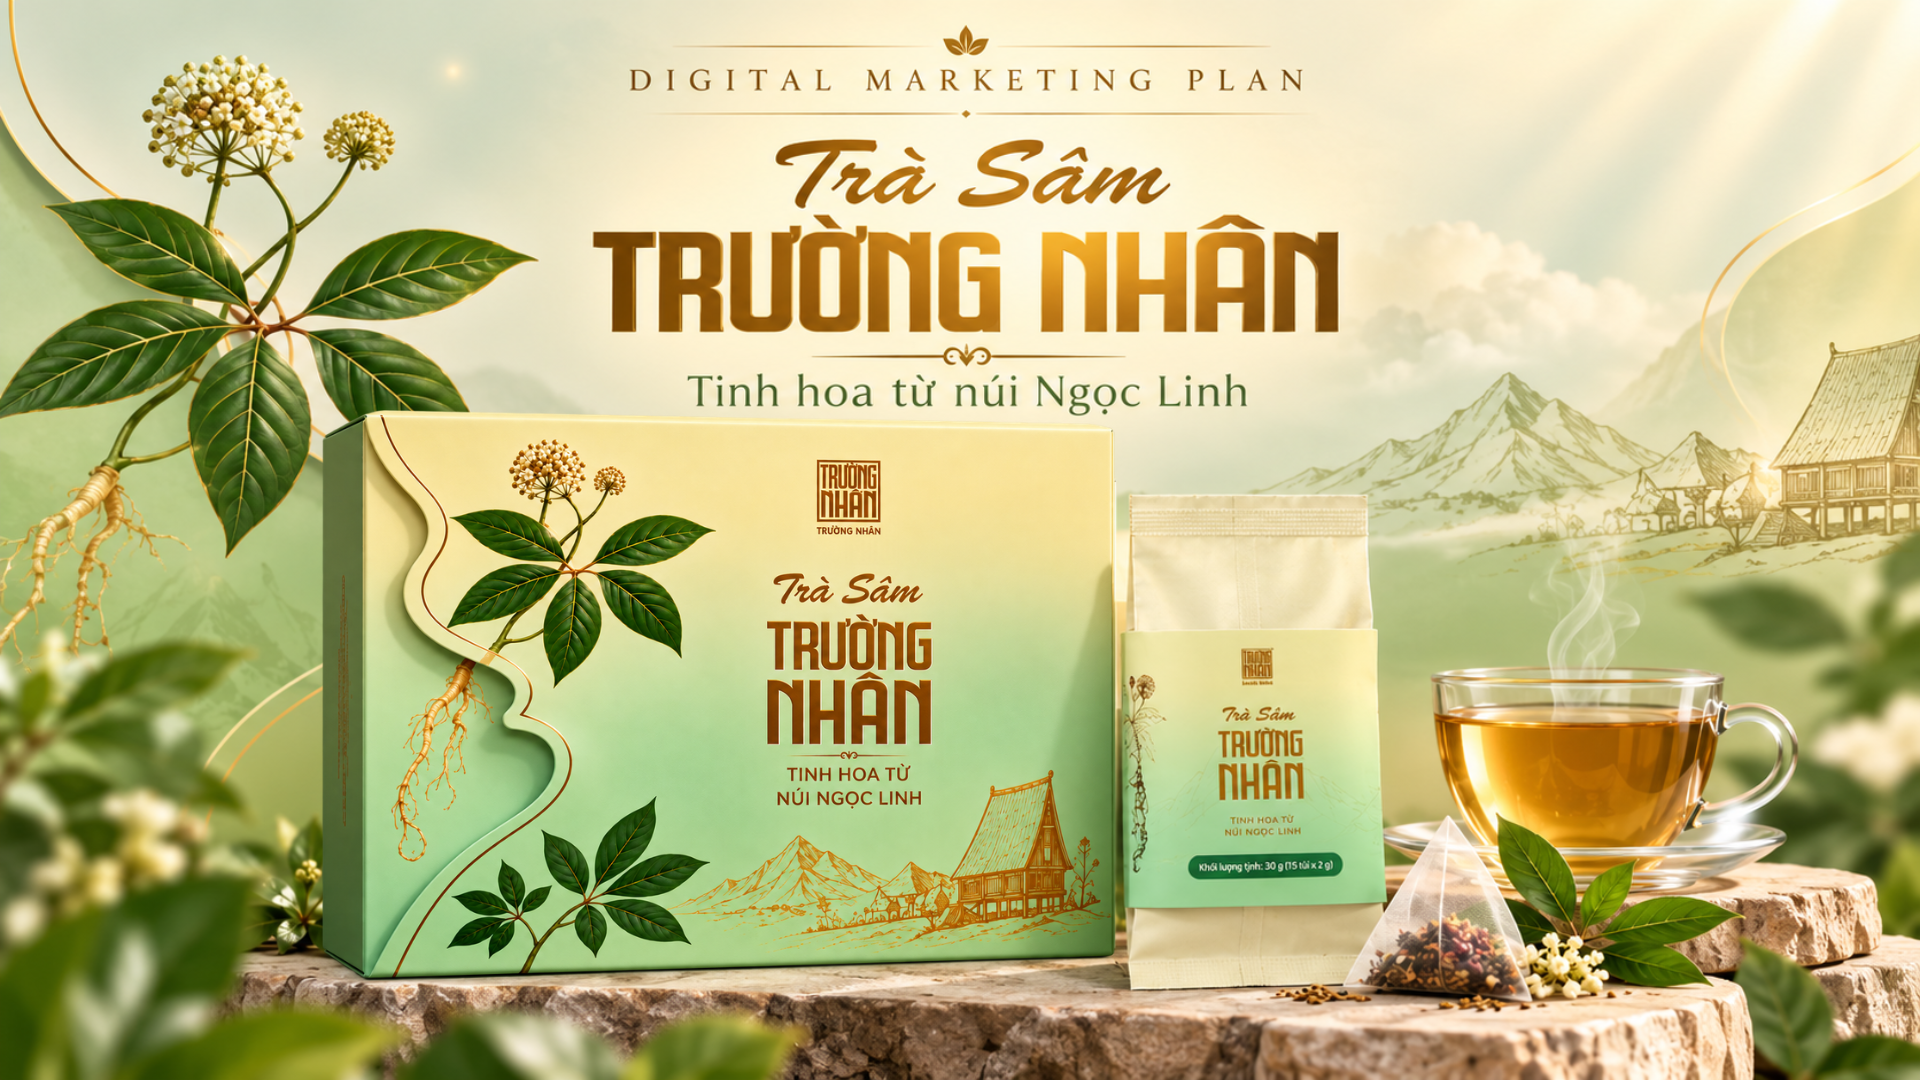
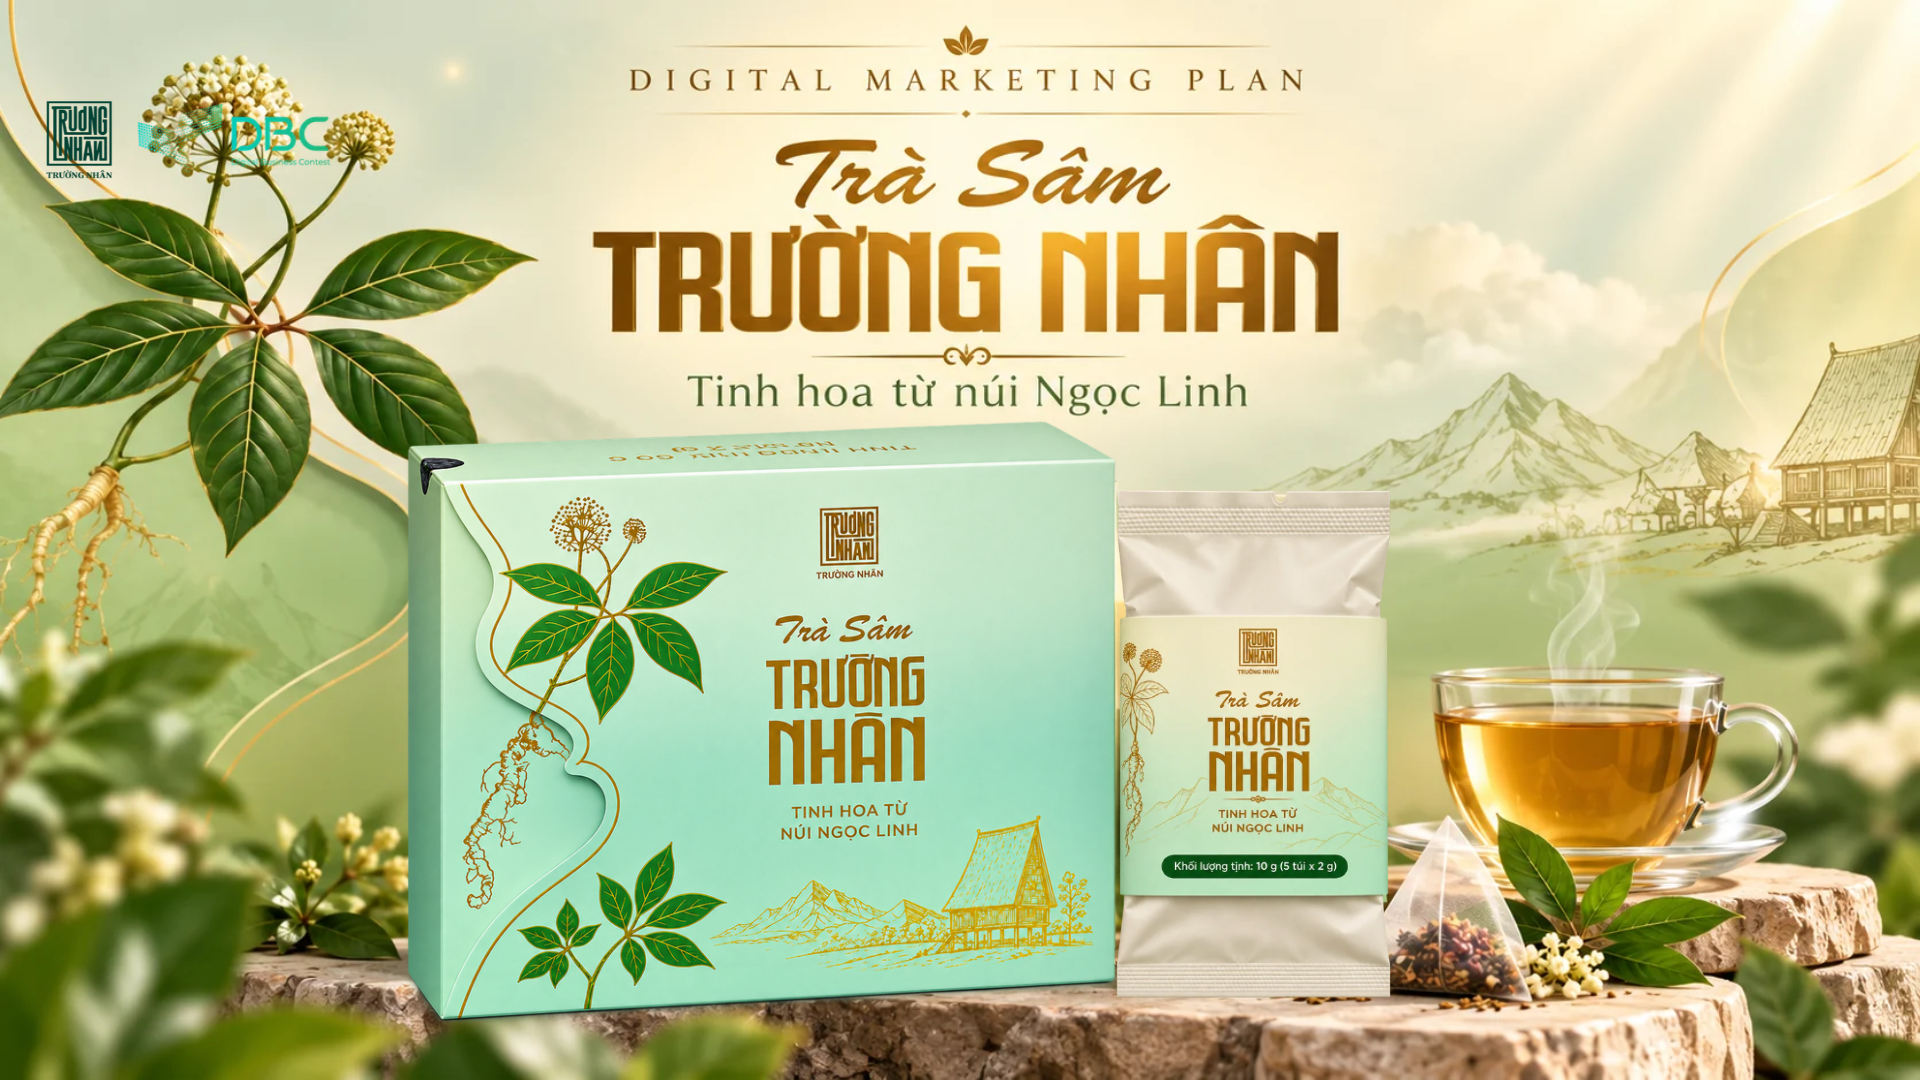
Replace cover and reconcile latest campaign media

Changed region(s): [[0.1562, 0.3667, 0.75, 0.9472], [0.0, 0.0917, 0.1875, 0.1833]]

diff --git a/src/app/globals.css b/src/app/globals.css
@@ -177,7 +177,7 @@ img { display: block; max-width: 100%; }
 .receipt-journey-clock { display: inline-flex; align-items: center; gap: .55rem; margin-bottom: 1.5rem; color: var(--brand-forest); }
 .receipt-journey-clock > span { font-family: var(--type-display); font-size: 2.2rem; font-variant-numeric: tabular-nums; }
 .receipt-journey-clock small { max-width: 200px; margin-left: .4rem; color: var(--text-secondary); font-size: .72rem; line-height: 1.25; }
-.receipt-journey-entry { min-height: 510px; display: flex; align-items: center; padding: clamp(1.3rem, 5vw, 4rem); border-radius: 22px; background: linear-gradient(90deg, rgba(17,51,34,.96), rgba(20,60,37,.83) 53%, rgba(20,60,37,.32)), url('/images/truong-nhan-cover.png') center / cover; color: var(--brand-ivory); }
+.receipt-journey-entry { min-height: 510px; display: flex; align-items: center; padding: clamp(1.3rem, 5vw, 4rem); border-radius: 22px; background: linear-gradient(90deg, rgba(17,51,34,.96), rgba(20,60,37,.83) 53%, rgba(20,60,37,.32)), url('/images/truong-nhan-cover-v2.png') center / cover; color: var(--brand-ivory); }
 .receipt-journey-entry-copy { width: min(100%, 570px); }
 .receipt-journey-entry-copy > p:first-child, .receipt-quiz-count { color: var(--brand-gold-light); font-size: .76rem; font-weight: 800; letter-spacing: .11em; }
 .receipt-journey-entry h3 { margin: .8rem 0 2rem; font-family: var(--type-display); font-size: clamp(2rem, 4vw, 3.8rem); font-weight: 600; line-height: 1.1; }
@@ -240,7 +240,7 @@ img { display: block; max-width: 100%; }
 .receipt-detailed { background: #e8eddd; }
 .receipt-detailed > summary { width: min(100% - 3rem, 1180px); margin: 0 auto; padding: 1.4rem 0; border-top: 1px solid #b9c9b2; color: var(--brand-forest); font-family: var(--type-display); font-size: clamp(1.2rem, 2vw, 1.7rem); font-weight: 600; cursor: pointer; }
 .receipt-detailed .receipt-experience { padding-top: 2rem; }
-@media (max-width: 700px) { .receipt-journey-inner { width: min(100% - 2rem, 520px); } .receipt-journey-steps { grid-template-columns: repeat(2, minmax(0, 1fr)); } .receipt-journey-entry { min-height: 470px; background: linear-gradient(90deg, rgba(17,51,34,.94), rgba(20,60,37,.67)), url('/images/truong-nhan-cover.png') center / cover; } .receipt-quiz-result { grid-template-columns: 1fr; } .receipt-story-preview { width: min(100%, 330px); } }
+@media (max-width: 700px) { .receipt-journey-inner { width: min(100% - 2rem, 520px); } .receipt-journey-steps { grid-template-columns: repeat(2, minmax(0, 1fr)); } .receipt-journey-entry { min-height: 470px; background: linear-gradient(90deg, rgba(17,51,34,.94), rgba(20,60,37,.67)), url('/images/truong-nhan-cover-v2.png') center / cover; } .receipt-quiz-result { grid-template-columns: 1fr; } .receipt-story-preview { width: min(100%, 330px); } }
 @media (max-width: 420px) { .receipt-journey-clock small { max-width: 140px; } .receipt-journey-steps li { font-size: .75rem; } .receipt-quiz-actions button, .receipt-quiz-shops a, .receipt-quiz-shops button { width: 100%; } }
 @media (prefers-reduced-motion: reduce) { .receipt-quiz-card { animation: none; } }
 

diff --git a/src/app/page.tsx b/src/app/page.tsx
@@ -7,6 +7,7 @@ import { TrackedLink } from '@/components/site/TrackedLink';
 import { CertificationGallery } from '@/components/product/CertificationGallery';
 
 export const dynamic = 'force-dynamic';
+const coverImage = '/images/truong-nhan-cover-v2.png';
 
 export default async function HomePage() {
   const [brand, campaign, product, team] = await Promise.all([
@@ -19,7 +20,7 @@ export default async function HomePage() {
   return (
     <main id="main">
       <section className="cover-hero" aria-label="Trà Sâm Trường Nhân">
-        <Image src="/images/truong-nhan-cover.png" alt="Trà Sâm Trường Nhân: hộp trà, túi lọc và tách trà bên núi Ngọc Linh" width={1920} height={1080} priority sizes="100vw" className="cover-image" />
+        <Image src={coverImage} alt="Trà Sâm Trường Nhân: hộp trà, túi lọc và tách trà bên núi Ngọc Linh" width={1920} height={1080} priority sizes="100vw" className="cover-image" />
       </section>
 
       <section className="intro-panel" aria-labelledby="home-intro-title">
@@ -100,7 +101,7 @@ export default async function HomePage() {
             <div className="product-feature-facts"><div><strong>{product.packCount} × {product.gramsPerBag}g</strong><span>Mỗi hộp</span></div><div><strong>{product.brewMinutesMin}–{product.brewMinutesMax} phút</strong><span>Thời gian pha gợi ý</span></div></div>
             <TrackedLink className="editorial-link" href="/san-pham" type="product_clicked">Khám phá sản phẩm <ArrowUpRight size={16} aria-hidden="true" /></TrackedLink>
           </div>
-          <div className="product-feature-visual"><Image src="/images/truong-nhan-cover.png" alt="Trọn bộ hình ảnh sản phẩm Trà Sâm Trường Nhân" width={1920} height={1080} sizes="(max-width: 800px) 100vw, 50vw" /><span className="image-seal"><Leaf size={18} aria-hidden="true" /> Tinh hoa từ núi Ngọc Linh</span></div>
+          <div className="product-feature-visual"><Image src={coverImage} alt="Trọn bộ hình ảnh sản phẩm Trà Sâm Trường Nhân" width={1920} height={1080} sizes="(max-width: 800px) 100vw, 50vw" /><span className="image-seal"><Leaf size={18} aria-hidden="true" /> Tinh hoa từ núi Ngọc Linh</span></div>
         </div>
       </section>
 

diff --git a/src/app/layout.tsx b/src/app/layout.tsx
@@ -32,7 +32,7 @@ export const metadata: Metadata = {
     type: 'website', locale: 'vi_VN', siteName: 'Trà Sâm Trường Nhân',
     title: 'Trà Sâm Trường Nhân — Sâm không đợi dịp',
     description: 'Một khoảng dừng nhỏ để bắt đầu chăm sóc bản thân hôm nay.',
-    images: process.env.NEXT_PUBLIC_SITE_URL ? [{ url: new URL('/images/truong-nhan-cover.png', process.env.NEXT_PUBLIC_SITE_URL).toString(), width: 1920, height: 1080, alt: 'Trà Sâm Trường Nhân' }] : undefined,
+    images: process.env.NEXT_PUBLIC_SITE_URL ? [{ url: new URL('/images/truong-nhan-cover-v2.png', process.env.NEXT_PUBLIC_SITE_URL).toString(), width: 1920, height: 1080, alt: 'Trà Sâm Trường Nhân' }] : undefined,
   },
   robots: { index: true, follow: true },
   icons: { icon: { url: '/images/logo-truong-nhan.png', type: 'image/png' } },

diff --git a/docs/TEST_RESULTS.md b/docs/TEST_RESULTS.md
@@ -730,3 +730,16 @@ Native Chrome automation stopped because the Computer Use tool could not determi
 | Video delivery | Representative W1, W4, W6 and W8 MP4s returned HTTP 206, `video/mp4`, 1,024-byte ranges and full-file lengths rather than Git LFS pointer text. |
 | Production browser | At 390 px, the homepage used Mulish body/Spectral display type, showed four intact certificate images and had no horizontal overflow. The detailed receipt created a TN code and displayed the nonpersistent-production notice. Strategy rendered six PESTEL cards, four TOWS entries, five funnel rows and six monitoring rows without the global error page. |
 | Production media | Five videos on `/giai-doan/lam-ngay` loaded to ready state 4 with nonzero 1080×1920 or 720×1280 metadata and no media errors. Browser console QA found no warnings or errors. |
+
+## CP-70 — Cover and latest campaign artwork (2026-11-26)
+
+| Check | Observed result |
+| --- | --- |
[1 lines of base64/hex data omitted]
+| Cache handling | Reusing the prior optimized URL served the stale cover locally. A query-string cache key was rejected by Next Image because it was not in `images.localPatterns`; the final versioned filename loads successfully and avoids both failure modes. |
+| Latest-media audit | `anh_moi_nhat` contains 46 phase files outside the four certificate images. Campaign data contains 46 unique phase references; every public file exists, every SHA-256 matches the latest source set, and no latest source asset is unused. |
+| Legacy cleanup | Removed five tracked, unreferenced old posters from `public/images/phases`. Repository search confirmed no source or content reference to those paths before removal. |
+| Code gates | `npm run lint` passed; `npm run test` passed 10 tests; `npm run build` passed after the required security-reminder retry and validated all 10 content and five seed JSON files. |
+| Cover browser QA | At 390 px and 1440 px, the versioned cover loaded with a 1.7778 ratio, no broken image and no horizontal overflow. Screenshots showed the new turquoise package artwork and the added campaign marks. |
+| Phase browser QA | At 390 px, phase routes rendered 6 images/4 videos, 20 images/5 videos and 2 images/9 videos respectively, with no horizontal overflow or loaded broken images. All nine phase-three videos reached ready state 4 with nonzero metadata and no media errors; console QA reported no warnings or errors. |
+| Production | Not pushed or deployed; the live site remains on CP-69 pending an explicit deployment request. |

diff --git a/docs/CHECKPOINT.md b/docs/CHECKPOINT.md
@@ -4,12 +4,13 @@ Project: Truong Nhan Digital Campaign
 
 ## Current Status
 
-Current checkpoint: CP-69
-Status: COMPLETE (production deployment and verification)
-Last completed checkpoint: CP-69 (production source commit `0900c5d`).
+Current checkpoint: CP-70
+Status: COMPLETE (cover and latest campaign media verified locally)
+Last completed checkpoint: CP-70 (local cover/media source commit pending).
 
 ## Completed Work
 
+- Completed CP-70: replaced the cover with the supplied 1920 × 1080 artwork, added a versioned cover URL to bypass stale optimized-image caches, proved all 46 rendered phase assets match `anh_moi_nhat` by SHA-256, removed five unreferenced legacy posters, and passed local build and responsive browser QA.
 - Completed CP-69: pushed `0900c5d` and 390 MB of Git LFS media to `origin/main`, observed the live receipt endpoint switch from HTTP 500 to 201, and verified production routes, exact campaign data, certificates, media ranges, mobile receipt creation, strategy content and responsive layout.
 - Completed CP-68: repaired receipt creation on Vercel with an explicit ephemeral response, applied the supplied Word revisions, added four prominent certificate/document images, mapped all latest phase assets, and passed the complete local gate and responsive browser review.
 - Completed CP-67: pushed CP-66 to `origin/main`, observed Vercel success, and verified live campaign data, phase routes, poster loading, MP4 byte ranges, responsive order and playback of all nine videos.
@@ -84,7 +85,7 @@ Last completed checkpoint: CP-69 (production source commit `0900c5d`).
 
 ## Current Task
 
-CP-69 is complete. Production source commit `0900c5d` is live at `https://web-tra-sam-truong-nhan.vercel.app`; continue from the next user request.
+CP-70 is complete locally. The supplied cover and every current phase asset are verified; production remains on CP-69 until the user explicitly requests deployment.
 
 ## Completed Files
 
@@ -164,4 +165,4 @@ CP-69 is complete. Production source commit `0900c5d` is live at `https://web-tr
 
 ## Resume Command
 
-Read `AGENTS.md`, `docs/MASTER_PROMPT.md`, `docs/CHECKPOINT.md`, `docs/TASKS.md`, `docs/DECISIONS.md`, and `docs/TEST_RESULTS.md`. Continue from the next user request; preserve unrelated untracked source folders. CP-69 is deployed and verified on production.
+Read `AGENTS.md`, `docs/MASTER_PROMPT.md`, `docs/CHECKPOINT.md`, `docs/TASKS.md`, `docs/DECISIONS.md`, and `docs/TEST_RESULTS.md`. Continue from the next user request; preserve unrelated untracked source folders. CP-70 is locally verified but not deployed.

diff --git a/docs/DECISIONS.md b/docs/DECISIONS.md
@@ -432,3 +432,11 @@
 - Deploy CP-68 commit `0900c5d` through `origin/main` and the existing Vercel integration under the user's explicit production request. Treat the live receipt transition from HTTP 500 to a 201 response containing `storage: "ephemeral"` as the authoritative deployment signal when the unauthenticated GitHub status API is rate-limited.
 - Verify media in two layers: HTTP 200/206 responses with real byte lengths for certificate images and representative MP4s, then responsive browser checks for visual rendering and video metadata.
 - Keep the source folders untracked and push only normalized public assets. Record the Git LFS upload count and total because this release adds 10 changed video objects.
+
+## CP-70 cover and latest campaign artwork (2026-11-26)
+
+- Treat `F:\vòng loại .png` as the requested replacement cover. Keep an exact copy at the required `public/images/truong-nhan-cover.png` path and use the identical versioned public path `truong-nhan-cover-v2.png` in rendered/metadata references so existing Next Image and browser caches cannot retain the old artwork.
+- Preserve the existing 1920 × 1080 intrinsic dimensions and uncropped 16:9 layout. Do not add overlay text because the artwork already contains campaign and product typography.
+- Treat SHA-256 equality as the authoritative reconciliation for `anh_moi_nhat`: all 46 non-certificate source files have exactly one configured public counterpart, and no configured phase asset falls outside the new source set.
+- Remove five tracked legacy posters only after confirming that no source or content JSON references them. Their deletion is recoverable from Git history; all 46 currently rendered images/videos remain intact.
+- Keep CP-70 local because the user asked for editing but did not explicitly request a production deployment in this turn.

diff --git a/docs/IMPLEMENTATION_PLAN.md b/docs/IMPLEMENTATION_PLAN.md
@@ -74,5 +74,6 @@ Follow `docs/MASTER_PROMPT.md` with the later typography amendment. Keep the exi
 | CP-67 Production deployment | Push the verified CP-66 source through the existing GitHub/Vercel path, wait for deployment success, then verify live campaign JSON, all three phase routes, optimized posters, MP4 byte ranges, playback and responsive media order. |
 | CP-68 Receipt repair and latest content/assets | Reproduce the production receipt failure, keep durable JSON persistence on writable hosts while providing an honest ephemeral fallback on Vercel, apply the supplied Word revisions, publish the latest phase media, and place the supplied product documents prominently on the home and product pages. Validate data, code, responsive layout and representative media locally. |
 | CP-69 Production deployment | Commit and push CP-68 through the existing GitHub/Vercel path, wait for deployment success, then verify receipt creation, public documents, campaign media, strategy content and responsive production rendering. |
+| CP-70 Cover and latest campaign artwork | Replace the shared 1920 × 1080 cover asset with the newly supplied artwork, reconcile every phase image/video against `anh_moi_nhat`, remove unreferenced legacy posters, preserve responsive media behavior, verify locally, and leave production deployment pending an explicit request. |
 
 After each completed checkpoint: run its verification gate, write observed results, update status, commit focused changes. Never commit `data/runtime`, `.env`, `.next`, `node_modules`, or the large strategy PDF.

diff --git a/docs/TASKS.md b/docs/TASKS.md
@@ -22,6 +22,16 @@
 - [x] Verify mobile homepage, receipt creation, strategy content and phase-video metadata in the production browser.
 - [x] Record deployment evidence and leave original source-asset directories untracked.
 
+## CP-70 — Replace cover and reconcile latest campaign artwork
+
+- [x] Inspect the supplied and current cover images and confirm both are 1920 × 1080.
+- [x] Audit all 46 phase media references against `anh_moi_nhat` by SHA-256.
+- [x] Replace the stable public cover asset and use a versioned URL without changing crop behavior.
+- [x] Remove five unreferenced legacy posters; retain all 46 current media assets.
+- [x] Run focused code/build checks and responsive browser QA.
+- [x] Record the local result and commit the verified asset change.
+- [x] Keep production unchanged until the user explicitly requests deployment.
+
 | Status | Task |
 | --- | --- |
 | DONE | Verify both requested asset paths, inspect source image and 38-page PDF. |
